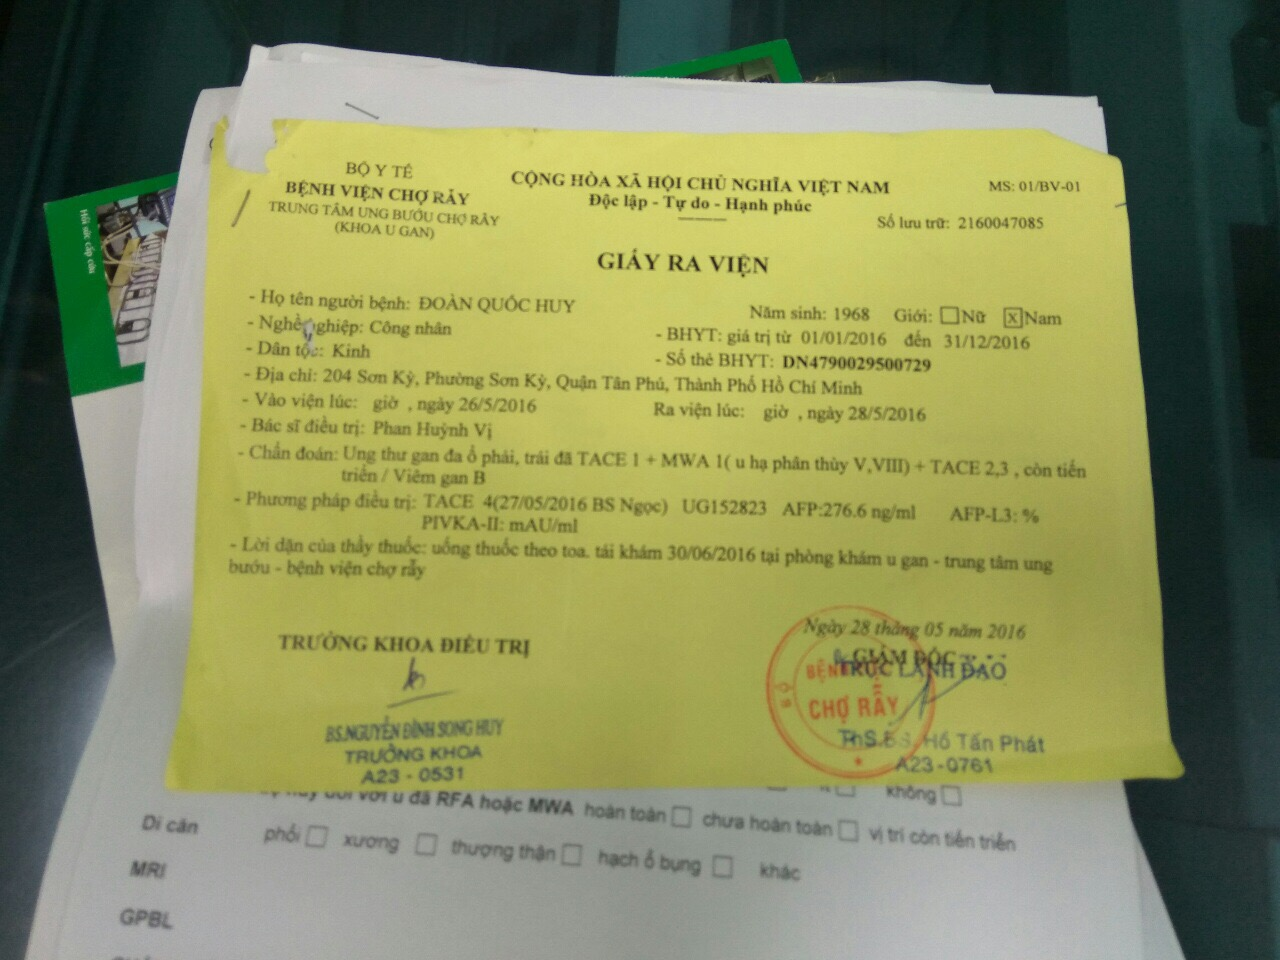
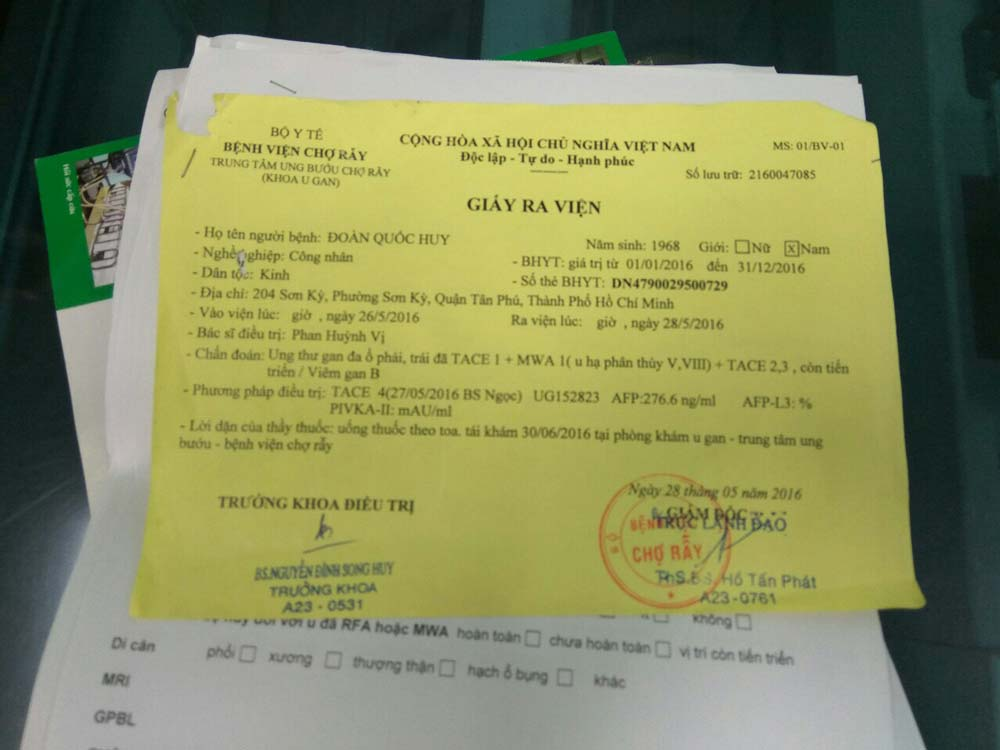
testimonials page update
optimized images

Changed region(s): [[0.434, 0.184, 0.62, 0.2147]]

diff --git a/testimonials.html b/testimonials.html
@@ -76,7 +76,7 @@
                             <div class="circle"><img src="images/doan-quoc-huy.jpg"></div>
                             <p><strong>Mr. Huy Quoc Doan (Age 49)<br>Khang Gia Tan Huong apartment, 377 Tan Huong St, Tan Quy ward, Tan Phu Dist., HCMC, Vietnam.<br>LIVER CANCER</strong></p>
                             <p>"I was diagnosed with liver cancer. I tried the Hearty Condensed Juice from Mrs Hien Do who recommended it to me. The juice was free of charge. I received 2 bottles of the Condensed Juice (about 1 litre total) on 21 Oct. 2016. I started to drink the juice and <a href="images/xetnghiem-HuyDoan.jpg" title="Mr. Huy's test result" data-featherlight="image">tested my health at the end of November 2016</a>. There wasn't any lump in my liver and the AFP test was 81.9/10. In the previous AFP test, my result was 380/10. I am continuing to drink the juice and now feel much better. I also eat Macrobiotic foods and it is developing faster results."</p>
-                            <p><a href="images/giayravien-HuyDoan.jpg" title="" datafeatherlight="image">Mr. Huy's hospital discharge paper</a></p>
+                            <p><a href="images/giayravien-HuyDoan.jpg" title="" data-featherlight="image">Mr. Huy's hospital discharge paper</a></p>
 
                             <div class="spacer line"></div>
 
